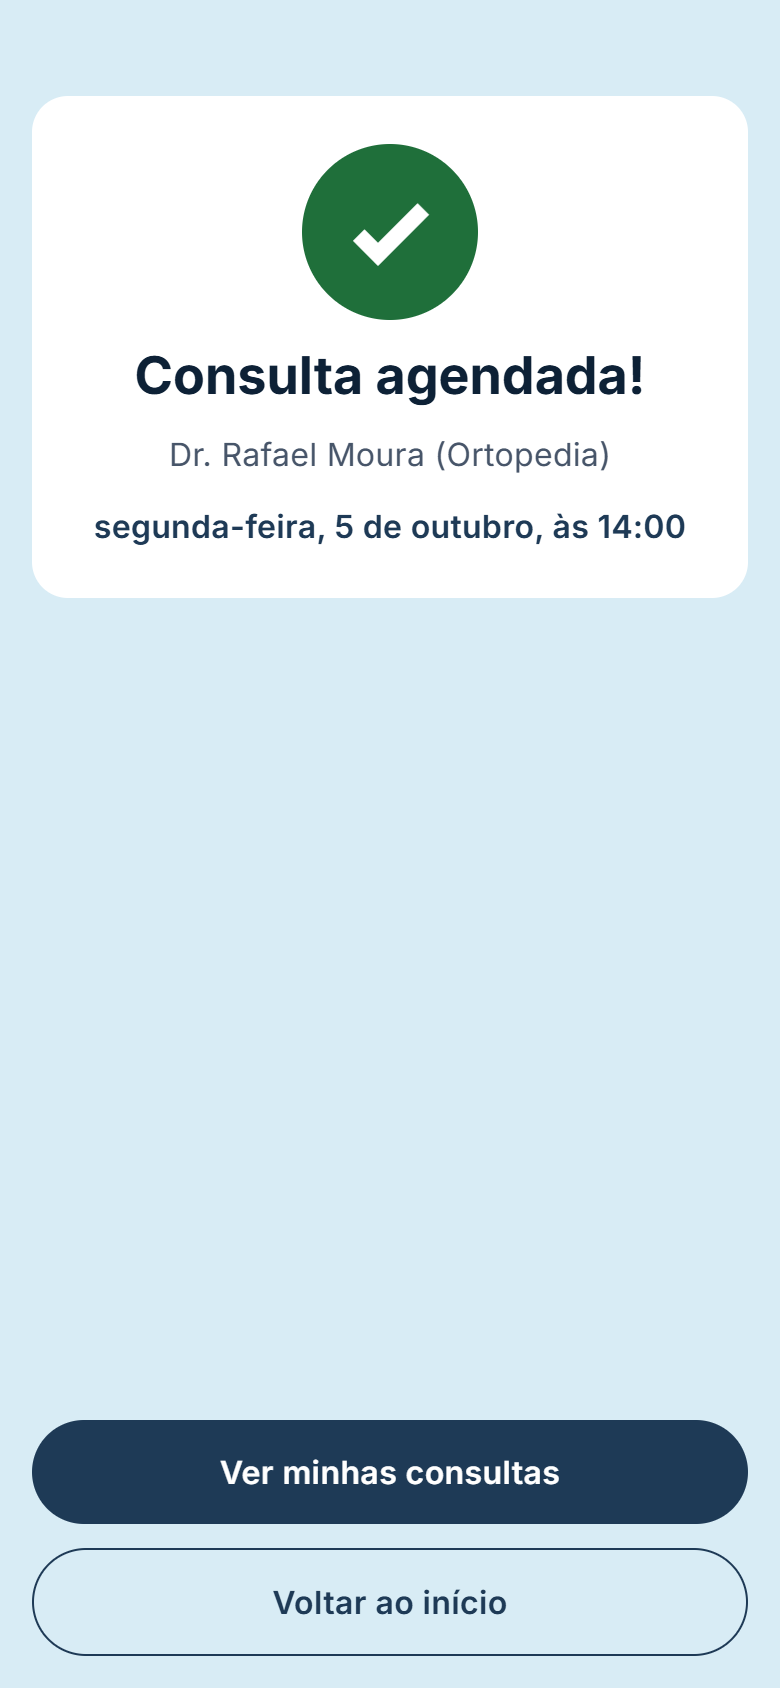
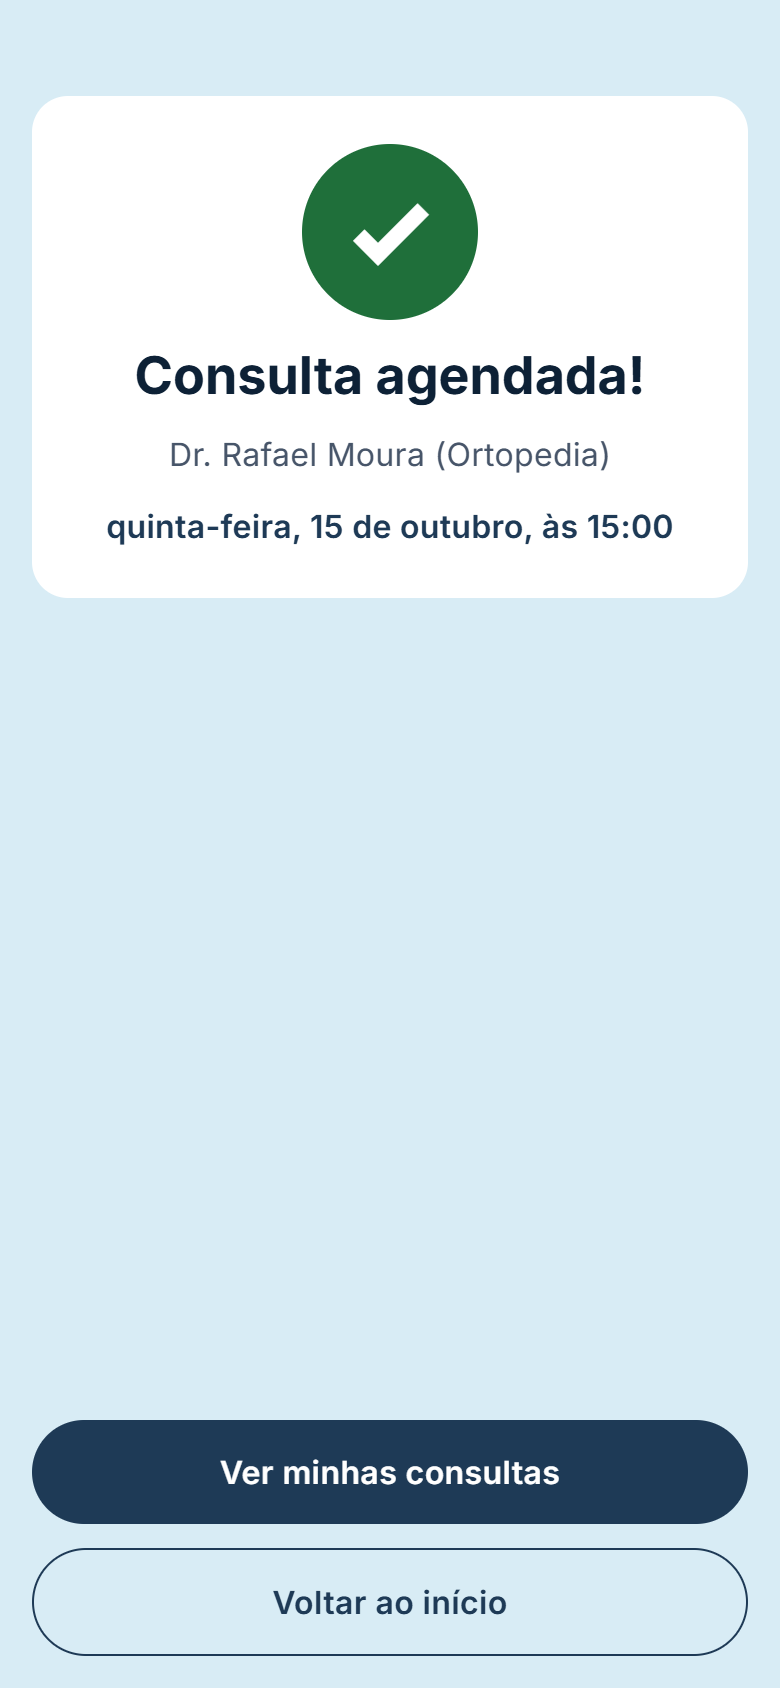
atualiza os prints e adiciona o GIF do fluxo do avaliador, gerados pelo roteiro no Chrome headless

Changed region(s): [[0.1231, 0.3081, 0.8615, 0.3389]]

diff --git a/ferramentas/capturar-telas.js b/ferramentas/capturar-telas.js
@@ -24,7 +24,7 @@ const ROTEIRO = [
   ['esperar', 'Sua próxima consulta'],
   ['foto', '06-inicio-paciente'],
   ['clicar', 'Agendar consulta'],
-  ['clicar', 'Dr. Rafael Moura'],
+  ['clicar', 'Dr. Rafael Moura, Ortopedia'],
   ['esperar', '1. Escolha o dia'],
   ['clicar', '15:00'],
   ['foto', '08-agenda-do-medico'],
@@ -43,7 +43,8 @@ const ROTEIRO = [
   ['esperar', 'Conta de demonstração'],
   ['foto', '14-perfil'],
   ['clicar', 'Sair'],
-  ['clicar', 'Sair', 'dialogo'],
+  ['esperar', 'Sair da conta?'],
+  ['clicar', 'Sair'],
   ['esperar', 'Explore a demonstração'],
   ['clicar', 'Entrar como clínica'],
   ['esperar', 'consultas hoje'],
@@ -81,15 +82,15 @@ const ROTEIRO = [
   const erros = [];
   pagina.on('pageerror', (e) => erros.push(e.message));
   try {
-    for (const [acao, alvo, onde] of ROTEIRO) {
+    for (const [acao, alvo] of ROTEIRO) {
       if (acao === 'abrir') await pagina.goto(base + alvo);
       if (acao === 'esperar') await pagina.getByText(alvo, { exact: false }).first().waitFor({ timeout: 90000 });
       if (acao === 'clicar') {
-        // Botões com o mesmo nome (ex.: "Sair" na tela e no diálogo): o diálogo restringe.
-        const escopo = onde === 'dialogo' ? pagina.getByRole('dialog') : pagina;
-        await escopo
+        // Com dois botões de mesmo nome (ex.: "Sair" na tela e no diálogo), vale o último:
+        // o diálogo é desenhado depois, no fim da página.
+        await pagina
           .getByRole('button', { name: alvo, exact: true })
-          .or(escopo.getByRole('tab', { name: alvo }))
+          .or(pagina.getByRole('tab', { name: alvo }))
           .last()
           .click();
         await pagina.waitForTimeout(400);

diff --git a/README.md b/README.md
@@ -17,6 +17,10 @@ App Expo (React Native) · API Node/Express · SQLite · login com papéis · te
 
 
 <p align="center">
+  <img src="docs/img/demo.gif" width="300" alt="Fluxo: entrar como paciente com um clique, agendar uma consulta, ver o histórico; depois entrar como clínica e ver o painel e a agenda">
+</p>
+
+<p align="center">
   <img src="docs/img/app/01-boas-vindas.png" width="200" alt="Tela de boas-vindas com missão, visão e valores">
   <img src="docs/img/app/08-agenda-do-medico.png" width="200" alt="Agenda do médico com escolha de dia e horário">
   <img src="docs/img/app/11-consultas.png" width="200" alt="Lista de próximas consultas da paciente">
